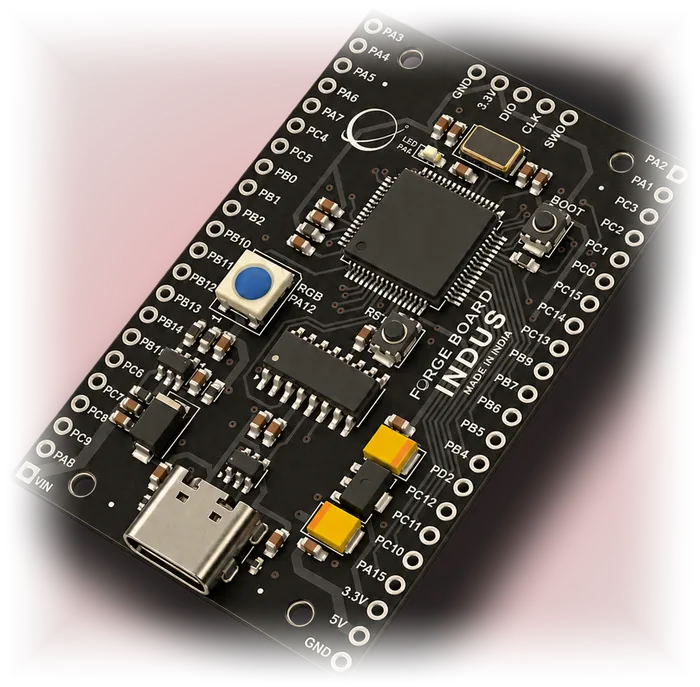
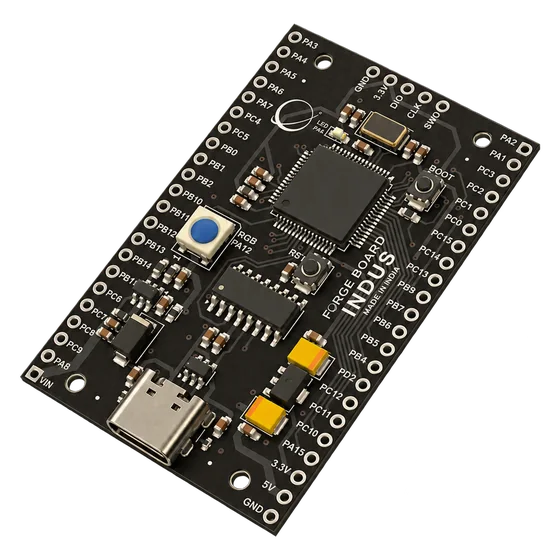
assets: new board renders, all four framed to one rule
Replaces the -3d pair for every board — the file the boards index, the store
row and the product page's flat fallback all share.

The renders arrived framed inconsistently: the board filled 87% of the
height on Flint, 89% on Sprint, 83% on Spark and 77% on Indus, and Indus
sat 5.6% off centre. Each is now rebuilt around its own board, taken from
the alpha channel above a threshold of 8, which drops the faint shadow halo
the render carries — on Flint that halo alone stretched the bounding box by
166px and would have thrown both the centring and the size.

The frame is a square, sized off the board's LONGEST side at 93%. Height
alone was the obvious rule and the wrong one: .art fits an image to 82% of
a 220px box, so normalising on height makes every image draw 180px tall —
but Flint's board is portrait, so its long side ran up that full height
while Sprint's ran across, and Flint came out a third bigger than the rest.
Measured off the page: 226, 193, 198, 308. A square frame gives all four
one aspect, so all four draw the same box and every board's longest side
lands on the same 168px. Measured again: 260, 261, 257, 252.

Boards centred at exactly 50/50, equal padding all round.

diff --git a/site/boards/sprint/index.html b/site/boards/sprint/index.html
@@ -43,10 +43,10 @@
       <div class="pdp-board">
       <fb-board src="../../assets/models/sprint.glb?v=59dbaf28"
         data-model="../../assets/models/sprint.glb?v=59dbaf28"
-        data-v-3d="../../assets/boards/sprint-3d.webp" data-s-3d="../../assets/boards/sprint-3d-sm.webp 700w, ../../assets/boards/sprint-3d.webp 1143w"
+        data-v-3d="../../assets/boards/sprint-3d.webp" data-s-3d="../../assets/boards/sprint-3d-sm.webp 560w, ../../assets/boards/sprint-3d.webp 1200w"
         data-v-top="../../assets/boards/sprint-top.webp" data-s-top="../../assets/boards/sprint-top-sm.webp 700w, ../../assets/boards/sprint-top.webp 1086w"
         data-v-bottom="../../assets/boards/sprint-bottom.webp" data-s-bottom="../../assets/boards/sprint-bottom-sm.webp 677w, ../../assets/boards/sprint-bottom.webp 1234w"
-        fallback="../../assets/boards/sprint-3d.webp" srcset="../../assets/boards/sprint-3d-sm.webp 700w, ../../assets/boards/sprint-3d.webp 1143w" sizes="(max-width:860px) 88vw, 55vw" alt="ForgeBoard Sprint 3D view" tilt="14" roll="225">
+        fallback="../../assets/boards/sprint-3d.webp" srcset="../../assets/boards/sprint-3d-sm.webp 560w, ../../assets/boards/sprint-3d.webp 1200w" sizes="(max-width:860px) 88vw, 55vw" alt="ForgeBoard Sprint 3D view" tilt="14" roll="225">
         <noscript><img src="../../assets/boards/sprint-3d-sm.webp" alt="ForgeBoard Sprint 3D view" style="width:100%;height:100%;object-fit:contain"></noscript>
       </fb-board>
       <div class="hs" data-hs-layer><p class="hs-lede eyebrow mono-muted">On the board</p><ol class="hs-list"><li class="hs-item"><button type="button" class="hs-pt hs-l" data-hs="dht" data-p="0.00342,0.01754,0.02412" data-n="0,1,0" data-side="l" data-spec="Sensors"><span class="hs-txt"><b>(DHT11)</b><i>Temperature + Humidity</i></span></button></li><li class="hs-item"><button type="button" class="hs-pt hs-l" data-hs="led" data-p="-0.00455,0.00267,0.00410" data-n="0,1,0" data-side="l" data-spec="LEDs"><span class="hs-txt"><b>LED</b></span></button></li><li class="hs-item"><button type="button" class="hs-pt hs-l" data-hs="buzzer" data-p="0.01600,0.01157,0.01845" data-n="0,1,0" data-side="l" data-spec="Sensors"><span class="hs-txt"><b>Piezo Buzzer</b></span></button></li><li class="hs-item"><button type="button" class="hs-pt hs-l" data-hs="ldr" data-p="0.02470,0.00604,0.01484" data-n="0,1,0" data-side="l" data-spec="Sensors"><span class="hs-txt"><b>LDR Sensor</b></span></button></li><li class="hs-item"><button type="button" class="hs-pt hs-l" data-hs="ir" data-p="0.02640,0.00990,0.00429" data-n="0,1,0" data-side="l" data-spec="Sensors"><span class="hs-txt"><b>Infrared Sensor</b></span></button></li><li class="hs-item"><button type="button" class="hs-pt hs-l" data-hs="bms" data-p="0.01098,0.00379,0.00456" data-n="0,1,0" data-side="l" data-spec="Battery"><span class="hs-txt"><b>Battery Charging (BMS)</b></span></button></li><li class="hs-item"><button type="button" class="hs-pt hs-r" data-hs="usb" data-p="-0.00980,0.00535,0.02126" data-n="0,1,0" data-side="r" data-spec="USB"><span class="hs-txt"><b>USB‑C for programming</b></span></button></li><li class="hs-item"><button type="button" class="hs-pt hs-r" data-hs="antenna" data-p="-0.02840,0.00304,-0.00180" data-n="0,1,0" data-side="r" data-spec="Wi‑Fi"><span class="hs-txt"><b>WiFi + BLE 5.0</b></span></button></li><li class="hs-item"><button type="button" class="hs-pt hs-r" data-hs="mcu" data-p="-0.01800,0.00514,-0.00190" data-n="0,1,0" data-side="r" data-spec="Processor"><span class="hs-txt"><b>ESP32 S3</b><i>Dual Core 240 MHz</i></span></button></li><li class="hs-item"><button type="button" class="hs-pt hs-r" data-hs="rgb" data-p="-0.00365,0.00334,-0.00905" data-n="0,1,0" data-side="r" data-spec="LEDs"><span class="hs-txt"><b>RGB LED</b><i>16M Colours</i></span></button></li><li class="hs-item"><button type="button" class="hs-pt hs-r" data-hs="gpio" data-p="-0.00540,0.00495,-0.01900" data-n="0,1,0" data-side="r" data-spec="GPIO"><span class="hs-txt"><b>19 GPIO Pins</b><i>SPI · I2C · UART · I2S · CAN · USB OTG</i></span></button></li><li class="hs-item"><button type="button" class="hs-pt hs-r" data-hs="charge" data-p="0.01134,0.00535,-0.02127" data-n="0,1,0" data-side="r" data-spec="Battery"><span class="hs-txt"><b>USB‑C for charging</b></span></button></li></ol><svg class="hs-wires" aria-hidden="true"></svg></div>

diff --git a/site/boards/index.html b/site/boards/index.html
@@ -52,7 +52,7 @@
             <h2><span class="nm">Spark</span><span class="tg">Start here.</span></h2>
             <p class="eyebrow mono-muted">ESP32‑S3 · 240 MHz dual‑core</p>
           </div>
-          <div class="art"><img src="../assets/boards/spark-3d.webp" srcset="../assets/boards/spark-3d-sm.webp 700w, ../assets/boards/spark-3d.webp 1500w" sizes="(max-width:860px) 70vw, 24vw" alt="ForgeBoard Spark board" loading="lazy" decoding="async"></div>
+          <div class="art"><img src="../assets/boards/spark-3d.webp" srcset="../assets/boards/spark-3d-sm.webp 560w, ../assets/boards/spark-3d.webp 1200w" sizes="(max-width:860px) 70vw, 24vw" alt="ForgeBoard Spark board" loading="lazy" decoding="async"></div>
           <ul class="hl"><li>Breadboard‑friendly, 32 GPIO</li><li>Wi‑Fi &amp; Bluetooth 5.0 built in</li><li>Survives static &amp; reversed power</li><li>USB‑C — no adapter, no driver hunt</li><li>RGB LED for your first “hello”</li><li>One-click flash from the ForgeBoard IDE</li></ul>
         </a>
       </li>
@@ -63,7 +63,7 @@
             <h2><span class="nm">Sprint</span><span class="tg">Ready before you are.</span></h2>
             <p class="eyebrow mono-muted">ESP32‑S3 · 240 MHz dual‑core</p>
           </div>
-          <div class="art"><img src="../assets/boards/sprint-3d.webp" srcset="../assets/boards/sprint-3d-sm.webp 700w, ../assets/boards/sprint-3d.webp 1143w" sizes="(max-width:860px) 70vw, 24vw" alt="ForgeBoard Sprint board" loading="lazy" decoding="async"></div>
+          <div class="art"><img src="../assets/boards/sprint-3d.webp" srcset="../assets/boards/sprint-3d-sm.webp 560w, ../assets/boards/sprint-3d.webp 1200w" sizes="(max-width:860px) 70vw, 24vw" alt="ForgeBoard Sprint board" loading="lazy" decoding="async"></div>
           <ul class="hl"><li>4 sensors &amp; a buzzer on board</li><li>Charges a Li‑ion cell — runs unplugged</li><li>Wi‑Fi &amp; Bluetooth 5.0 built in</li><li>19 GPIO still free for your parts</li><li>USB‑C, ESD &amp; thermal protection</li><li>Updates over the air — Wi‑Fi or BLE</li></ul>
         </a>
       </li>
@@ -74,7 +74,7 @@
             <h2><span class="nm">Indus</span><span class="tg">For your toughest challenges.</span></h2>
             <p class="eyebrow mono-muted">STM32G4 · 170 MHz Cortex‑M4F</p>
           </div>
-          <div class="art"><img src="../assets/boards/indus-3d.webp" srcset="../assets/boards/indus-3d-sm.webp 700w, ../assets/boards/indus-3d.webp 1500w" sizes="(max-width:860px) 70vw, 24vw" alt="ForgeBoard Indus board" loading="lazy" decoding="async"></div>
+          <div class="art"><img src="../assets/boards/indus-3d.webp" srcset="../assets/boards/indus-3d-sm.webp 560w, ../assets/boards/indus-3d.webp 1200w" sizes="(max-width:860px) 70vw, 24vw" alt="ForgeBoard Indus board" loading="lazy" decoding="async"></div>
           <ul class="hl"><li>Rated –40 to +85 °C</li><li>3 CAN FD buses at 8 Mbit/s</li><li>Encrypts in hardware, AES‑256</li><li>Shrugs off ±15 kV static</li><li>Drives motors with 184 ps timing</li><li>Debug over SWD, 50 GPIO</li></ul>
         </a>
       </li>
@@ -85,7 +85,7 @@
             <h2><span class="nm">Flint</span><span class="tg">Small board. Long reach.</span></h2>
             <p class="eyebrow mono-muted">ESP8266 · 80–160 MHz</p>
           </div>
-          <div class="art"><img src="../assets/boards/flint-3d.webp" srcset="../assets/boards/flint-3d-sm.webp 700w, ../assets/boards/flint-3d.webp 1500w" sizes="(max-width:860px) 70vw, 24vw" alt="ForgeBoard Flint board" loading="lazy" decoding="async"></div>
+          <div class="art"><img src="../assets/boards/flint-3d.webp" srcset="../assets/boards/flint-3d-sm.webp 560w, ../assets/boards/flint-3d.webp 1200w" sizes="(max-width:860px) 70vw, 24vw" alt="ForgeBoard Flint board" loading="lazy" decoding="async"></div>
           <ul class="hl"><li>50 × 30 mm</li><li>Months on a battery — 20 µA asleep</li><li>Wi‑Fi with +20 dBm on‑board antenna</li><li>USB‑C, no driver hunt</li><li>Reverse‑polarity protected</li><li>Same ForgeBoard IDE as the rest</li></ul>
         </a>
       </li>

diff --git a/site/store/index.html b/site/store/index.html
@@ -57,7 +57,7 @@
             <h2><span class="nm">Spark</span><span class="tg">Start here.</span></h2>
             <p class="eyebrow mono-muted">ESP32‑S3 · 240 MHz · Wi‑Fi 4 + BLE 5.0 · 32 GPIO</p>
           </div>
-          <div class="art"><img src="../assets/boards/spark-3d.webp" srcset="../assets/boards/spark-3d-sm.webp 700w, ../assets/boards/spark-3d.webp 1500w" sizes="(max-width:860px) 70vw, 24vw" alt="ForgeBoard Spark board" loading="lazy" decoding="async"></div>
+          <div class="art"><img src="../assets/boards/spark-3d.webp" srcset="../assets/boards/spark-3d-sm.webp 560w, ../assets/boards/spark-3d.webp 1200w" sizes="(max-width:860px) 70vw, 24vw" alt="ForgeBoard Spark board" loading="lazy" decoding="async"></div>
           <ul class="hl"><li>Ships from Pune</li><li>Priced in ₹, GST invoice</li><li>Specs &amp; order →</li></ul>
         </a>
       </li>
@@ -68,7 +68,7 @@
             <h2><span class="nm">Sprint</span><span class="tg">Ready before you are.</span></h2>
             <p class="eyebrow mono-muted">ESP32‑S3 · 240 MHz · Wi‑Fi 4 + BLE 5.0 · 19 GPIO</p>
           </div>
-          <div class="art"><img src="../assets/boards/sprint-3d.webp" srcset="../assets/boards/sprint-3d-sm.webp 700w, ../assets/boards/sprint-3d.webp 1143w" sizes="(max-width:860px) 70vw, 24vw" alt="ForgeBoard Sprint board" loading="lazy" decoding="async"></div>
+          <div class="art"><img src="../assets/boards/sprint-3d.webp" srcset="../assets/boards/sprint-3d-sm.webp 560w, ../assets/boards/sprint-3d.webp 1200w" sizes="(max-width:860px) 70vw, 24vw" alt="ForgeBoard Sprint board" loading="lazy" decoding="async"></div>
           <ul class="hl"><li>Ships from Pune</li><li>Priced in ₹, GST invoice</li><li>Specs &amp; order →</li></ul>
         </a>
       </li>
@@ -79,7 +79,7 @@
             <h2><span class="nm">Indus</span><span class="tg">For your toughest challenges.</span></h2>
             <p class="eyebrow mono-muted">STM32G484 · 170 MHz · 50 GPIO</p>
           </div>
-          <div class="art"><img src="../assets/boards/indus-3d.webp" srcset="../assets/boards/indus-3d-sm.webp 700w, ../assets/boards/indus-3d.webp 1500w" sizes="(max-width:860px) 70vw, 24vw" alt="ForgeBoard Indus board" loading="lazy" decoding="async"></div>
+          <div class="art"><img src="../assets/boards/indus-3d.webp" srcset="../assets/boards/indus-3d-sm.webp 560w, ../assets/boards/indus-3d.webp 1200w" sizes="(max-width:860px) 70vw, 24vw" alt="ForgeBoard Indus board" loading="lazy" decoding="async"></div>
           <ul class="hl"><li>Ships from Pune</li><li>Priced in ₹, GST invoice</li><li>Specs &amp; order →</li></ul>
         </a>
       </li>
@@ -90,7 +90,7 @@
             <h2><span class="nm">Flint</span><span class="tg">Small board. Long reach.</span></h2>
             <p class="eyebrow mono-muted">ESP8266EX · 80–160 MHz · Wi‑Fi 4 · 12 GPIO</p>
           </div>
-          <div class="art"><img src="../assets/boards/flint-3d.webp" srcset="../assets/boards/flint-3d-sm.webp 700w, ../assets/boards/flint-3d.webp 1500w" sizes="(max-width:860px) 70vw, 24vw" alt="ForgeBoard Flint board" loading="lazy" decoding="async"></div>
+          <div class="art"><img src="../assets/boards/flint-3d.webp" srcset="../assets/boards/flint-3d-sm.webp 560w, ../assets/boards/flint-3d.webp 1200w" sizes="(max-width:860px) 70vw, 24vw" alt="ForgeBoard Flint board" loading="lazy" decoding="async"></div>
           <ul class="hl"><li>Ships from Pune</li><li>Priced in ₹, GST invoice</li><li>Specs &amp; order →</li></ul>
         </a>
       </li>

diff --git a/site/boards/indus/index.html b/site/boards/indus/index.html
@@ -43,10 +43,10 @@
       <div class="pdp-board">
       <fb-board src="../../assets/models/indus.glb?v=6863ef5b"
         data-model="../../assets/models/indus.glb?v=6863ef5b"
-        data-v-3d="../../assets/boards/indus-3d.webp" data-s-3d="../../assets/boards/indus-3d-sm.webp 700w, ../../assets/boards/indus-3d.webp 1500w"
+        data-v-3d="../../assets/boards/indus-3d.webp" data-s-3d="../../assets/boards/indus-3d-sm.webp 560w, ../../assets/boards/indus-3d.webp 1200w"
         data-v-top="../../assets/boards/indus-top.webp" data-s-top="../../assets/boards/indus-top-sm.webp 466w, ../../assets/boards/indus-top.webp 933w"
         data-v-bottom="../../assets/boards/indus-bottom.webp" data-s-bottom="../../assets/boards/indus-bottom-sm.webp 466w, ../../assets/boards/indus-bottom.webp 933w"
-        fallback="../../assets/boards/indus-3d.webp" srcset="../../assets/boards/indus-3d-sm.webp 700w, ../../assets/boards/indus-3d.webp 1500w" sizes="(max-width:860px) 88vw, 55vw" alt="ForgeBoard Indus 3D view" tilt="14" roll="30">
+        fallback="../../assets/boards/indus-3d.webp" srcset="../../assets/boards/indus-3d-sm.webp 560w, ../../assets/boards/indus-3d.webp 1200w" sizes="(max-width:860px) 88vw, 55vw" alt="ForgeBoard Indus 3D view" tilt="14" roll="30">
         <noscript><img src="../../assets/boards/indus-3d-sm.webp" alt="ForgeBoard Indus 3D view" style="width:100%;height:100%;object-fit:contain"></noscript>
       </fb-board>
       <div class="hs" data-hs-layer><p class="hs-lede eyebrow mono-muted">On the board</p><ol class="hs-list"><li class="hs-item"><button type="button" class="hs-pt hs-l" data-hs="mcu" data-p="0.00043,0.00354,-0.00927" data-n="0,1,0" data-side="l" data-spec="Processor"><span class="hs-txt"><b>STM32G484</b><i>Cortex‑M4F · 170 MHz</i></span></button></li><li class="hs-item"><button type="button" class="hs-pt hs-l" data-hs="xtal" data-p="0.00086,0.00317,-0.02000" data-n="0,1,0" data-side="l" data-spec="Timers &amp; PWM"><span class="hs-txt"><b>Crystal</b><i>External oscillator</i></span></button></li><li class="hs-item"><button type="button" class="hs-pt hs-r" data-hs="usb" data-p="0.00003,0.00535,0.02432" data-n="0,1,0" data-side="r" data-spec="USB"><span class="hs-txt"><b>USB‑C</b><i>Power + programming</i></span></button></li><li class="hs-item"><button type="button" class="hs-pt hs-l" data-hs="rgb" data-p="-0.00932,0.00334,0.00240" data-n="0,1,0" data-side="l" data-spec="LEDs"><span class="hs-txt"><b>RGB LED</b><i>16M Colours · PA12</i></span></button></li><li class="hs-item"><button type="button" class="hs-pt hs-r" data-hs="boot" data-p="0.00944,0.00404,-0.01541" data-n="0,1,0" data-side="r" data-spec="Buttons"><span class="hs-txt"><b>BOOT</b></span></button></li><li class="hs-item"><button type="button" class="hs-pt hs-r" data-hs="rst" data-p="0.00406,0.00404,0.00030" data-n="0,1,0" data-side="r" data-spec="Buttons"><span class="hs-txt"><b>RST</b></span></button></li><li class="hs-item"><button type="button" class="hs-pt hs-l" data-hs="swd" data-p="0.00000,0.00495,-0.02400" data-n="0,1,0" data-side="l" data-spec="Debug"><span class="hs-txt"><b>SWD Debug</b><i>SWCLK · SWDIO · SWO</i></span></button></li><li class="hs-item"><button type="button" class="hs-pt hs-r" data-hs="gpio" data-p="0.01500,0.00495,0.00200" data-n="0,1,0" data-side="r" data-spec="GPIO"><span class="hs-txt"><b>50 GPIO Pins</b><i>CAN FD · I2C · SPI · UART</i></span></button></li></ol><svg class="hs-wires" aria-hidden="true"></svg></div>

diff --git a/site/boards/spark/index.html b/site/boards/spark/index.html
@@ -43,10 +43,10 @@
       <div class="pdp-board">
       <fb-board src="../../assets/models/spark.glb?v=510ef41c"
         data-model="../../assets/models/spark.glb?v=510ef41c"
-        data-v-3d="../../assets/boards/spark-3d.webp" data-s-3d="../../assets/boards/spark-3d-sm.webp 700w, ../../assets/boards/spark-3d.webp 1500w"
+        data-v-3d="../../assets/boards/spark-3d.webp" data-s-3d="../../assets/boards/spark-3d-sm.webp 560w, ../../assets/boards/spark-3d.webp 1200w"
         data-v-top="../../assets/boards/spark-top.webp" data-s-top="../../assets/boards/spark-top-sm.webp 466w, ../../assets/boards/spark-top.webp 933w"
         data-v-bottom="../../assets/boards/spark-bottom.webp" data-s-bottom="../../assets/boards/spark-bottom-sm.webp 466w, ../../assets/boards/spark-bottom.webp 933w"
-        fallback="../../assets/boards/spark-3d.webp" srcset="../../assets/boards/spark-3d-sm.webp 700w, ../../assets/boards/spark-3d.webp 1500w" sizes="(max-width:860px) 88vw, 55vw" alt="ForgeBoard Spark 3D view" tilt="14" roll="45">
+        fallback="../../assets/boards/spark-3d.webp" srcset="../../assets/boards/spark-3d-sm.webp 560w, ../../assets/boards/spark-3d.webp 1200w" sizes="(max-width:860px) 88vw, 55vw" alt="ForgeBoard Spark 3D view" tilt="14" roll="45">
         <noscript><img src="../../assets/boards/spark-3d-sm.webp" alt="ForgeBoard Spark 3D view" style="width:100%;height:100%;object-fit:contain"></noscript>
       </fb-board>
       <div class="hs" data-hs-layer><p class="hs-lede eyebrow mono-muted">On the board</p><ol class="hs-list"><li class="hs-item"><button type="button" class="hs-pt hs-l" data-hs="mcu" data-p="0.00030,0.00514,-0.01540" data-n="0,1,0" data-side="l" data-spec="Processor"><span class="hs-txt"><b>ESP32 S3</b><i>Dual Core 240 MHz</i></span></button></li><li class="hs-item"><button type="button" class="hs-pt hs-l" data-hs="antenna" data-p="0.00020,0.00304,-0.02579" data-n="0,1,0" data-side="l" data-spec="Wi‑Fi"><span class="hs-txt"><b>WiFi + BLE 5.0</b></span></button></li><li class="hs-item"><button type="button" class="hs-pt hs-r" data-hs="usb" data-p="0.00063,0.00535,0.02128" data-n="0,1,0" data-side="r" data-spec="USB"><span class="hs-txt"><b>USB‑C</b><i>Power + programming</i></span></button></li><li class="hs-item"><button type="button" class="hs-pt hs-r" data-hs="rgb" data-p="0.00390,0.00334,-0.00050" data-n="0,1,0" data-side="r" data-spec="LEDs"><span class="hs-txt"><b>RGB LED</b><i>16M Colours · IO14</i></span></button></li><li class="hs-item"><button type="button" class="hs-pt hs-l" data-hs="rst" data-p="-0.01160,0.00404,-0.01172" data-n="0,1,0" data-side="l" data-spec="Buttons"><span class="hs-txt"><b>RST</b></span></button></li><li class="hs-item"><button type="button" class="hs-pt hs-r" data-hs="boot" data-p="0.01171,0.00404,-0.01167" data-n="0,1,0" data-side="r" data-spec="Buttons"><span class="hs-txt"><b>BOOT</b></span></button></li><li class="hs-item"><button type="button" class="hs-pt hs-l" data-hs="reg" data-p="-0.01045,0.00356,0.01025" data-n="0,1,0" data-side="l" data-spec="Input"><span class="hs-txt"><b>Voltage Regulator</b><i>Dual rail · 5–12 V in</i></span></button></li><li class="hs-item"><button type="button" class="hs-pt hs-r" data-hs="gpio" data-p="0.01400,0.00495,0.00200" data-n="0,1,0" data-side="r" data-spec="GPIO"><span class="hs-txt"><b>32 GPIO Pins</b><i>ADC · UART · SPI · I2C · I2S</i></span></button></li></ol><svg class="hs-wires" aria-hidden="true"></svg></div>

diff --git a/site/boards/flint/index.html b/site/boards/flint/index.html
@@ -43,10 +43,10 @@
       <div class="pdp-board">
       <fb-board src="../../assets/models/flint.glb?v=24b6f183"
         data-model="../../assets/models/flint.glb?v=24b6f183"
-        data-v-3d="../../assets/boards/flint-3d.webp" data-s-3d="../../assets/boards/flint-3d-sm.webp 700w, ../../assets/boards/flint-3d.webp 1500w"
+        data-v-3d="../../assets/boards/flint-3d.webp" data-s-3d="../../assets/boards/flint-3d-sm.webp 560w, ../../assets/boards/flint-3d.webp 1200w"
         data-v-top="../../assets/boards/flint-top.webp" data-s-top="../../assets/boards/flint-top-sm.webp 466w, ../../assets/boards/flint-top.webp 933w"
         data-v-bottom="../../assets/boards/flint-bottom.webp" data-s-bottom="../../assets/boards/flint-bottom-sm.webp 466w, ../../assets/boards/flint-bottom.webp 933w"
-        fallback="../../assets/boards/flint-3d.webp" srcset="../../assets/boards/flint-3d-sm.webp 700w, ../../assets/boards/flint-3d.webp 1500w" sizes="(max-width:860px) 88vw, 55vw" alt="ForgeBoard Flint 3D view" tilt="14" roll="30">
+        fallback="../../assets/boards/flint-3d.webp" srcset="../../assets/boards/flint-3d-sm.webp 560w, ../../assets/boards/flint-3d.webp 1200w" sizes="(max-width:860px) 88vw, 55vw" alt="ForgeBoard Flint 3D view" tilt="14" roll="30">
         <noscript><img src="../../assets/boards/flint-3d-sm.webp" alt="ForgeBoard Flint 3D view" style="width:100%;height:100%;object-fit:contain"></noscript>
       </fb-board>
       <div class="hs" data-hs-layer><p class="hs-lede eyebrow mono-muted">On the board</p><ol class="hs-list"><li class="hs-item"><button type="button" class="hs-pt hs-l" data-hs="mcu" data-p="-0.00010,0.00444,-0.01753" data-n="0,1,0" data-side="l" data-spec="Processor"><span class="hs-txt"><b>ESP8266EX</b><i>80 – 160 MHz</i></span></button></li><li class="hs-item"><button type="button" class="hs-pt hs-l" data-hs="antenna" data-p="-0.00155,0.00284,-0.02893" data-n="0,1,0" data-side="l" data-spec="Wi‑Fi"><span class="hs-txt"><b>WiFi 802.11 b/g/n</b></span></button></li><li class="hs-item"><button type="button" class="hs-pt hs-r" data-hs="usb" data-p="0.00039,0.00535,0.02132" data-n="0,1,0" data-side="r" data-spec="USB"><span class="hs-txt"><b>USB‑C</b><i>Power + programming</i></span></button></li><li class="hs-item"><button type="button" class="hs-pt hs-l" data-hs="rst" data-p="-0.01173,0.00404,-0.01416" data-n="0,1,0" data-side="l" data-spec="Buttons"><span class="hs-txt"><b>RST</b></span></button></li><li class="hs-item"><button type="button" class="hs-pt hs-r" data-hs="boot" data-p="0.01144,0.00404,-0.00930" data-n="0,1,0" data-side="r" data-spec="Buttons"><span class="hs-txt"><b>BOOT</b></span></button></li><li class="hs-item"><button type="button" class="hs-pt hs-r" data-hs="gpio" data-p="0.01150,0.00495,0.00600" data-n="0,1,0" data-side="r" data-spec="GPIO"><span class="hs-txt"><b>12 GPIO Pins</b><i>SPI · UART · I2S · PWM</i></span></button></li></ol><svg class="hs-wires" aria-hidden="true"></svg></div>
